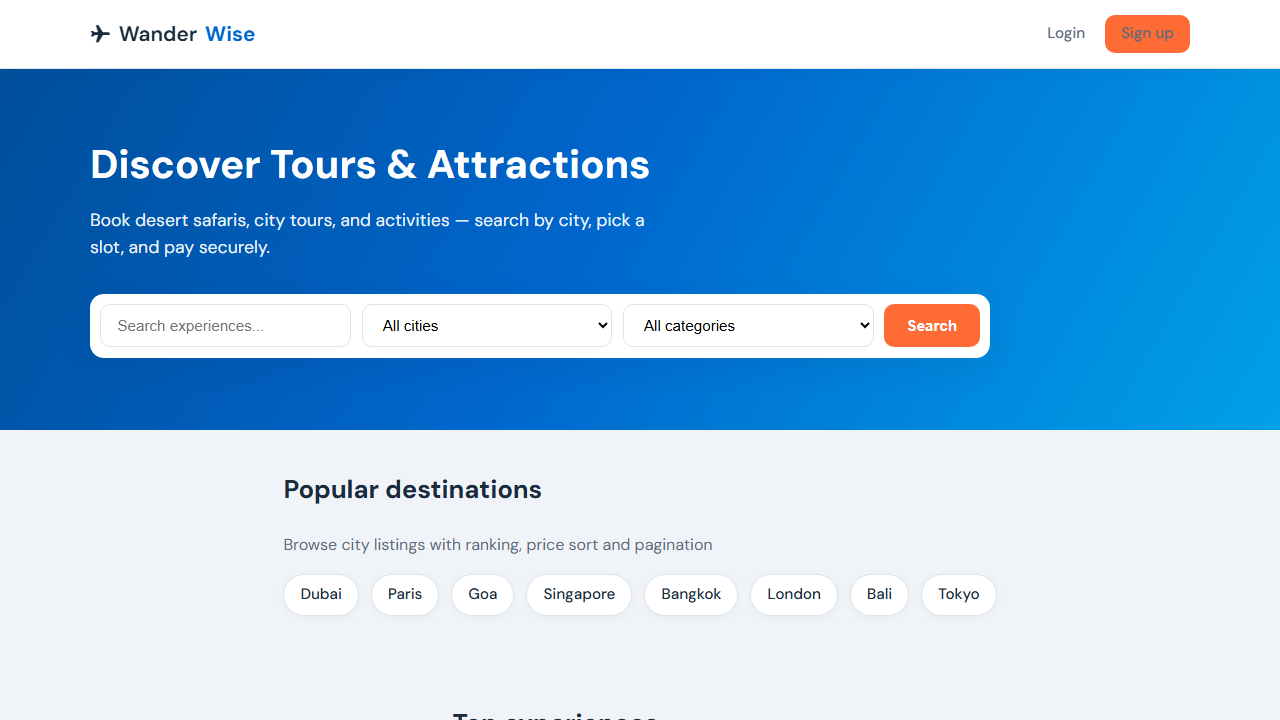
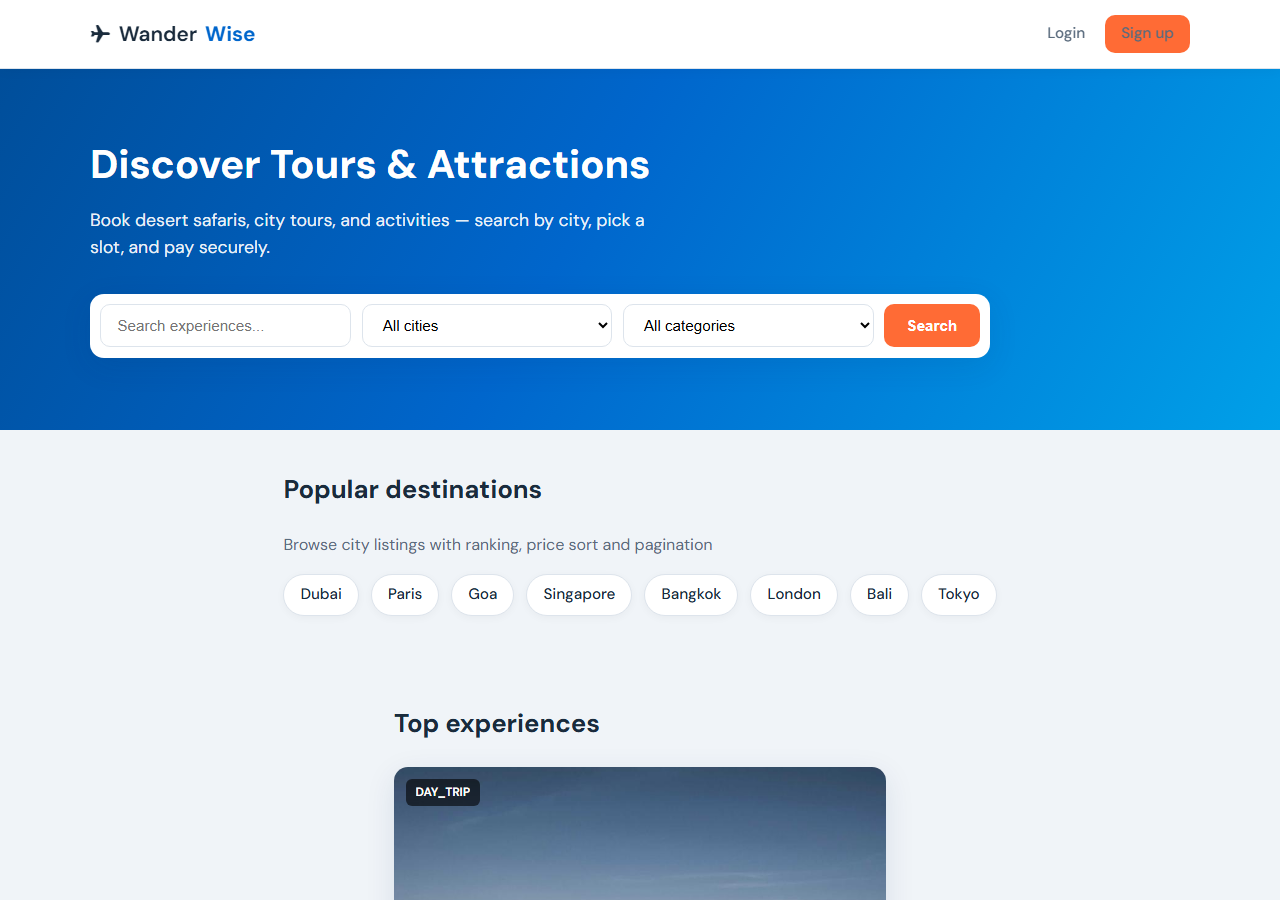
Home page Top experiences: 4-column grid and updated README screenshot.
Four tours per row with responsive breakpoints; load 8 tours (2 rows) on index.

diff --git a/wanderwise-booking-service/src/main/resources/static/css/style.css b/wanderwise-booking-service/src/main/resources/static/css/style.css
@@ -131,11 +131,27 @@ body {
 .section { padding: 2.5rem 0 3rem; }
 .section-title { font-size: 1.6rem; margin-bottom: 1.5rem; font-weight: 700; }
 
+/* Top experiences / listings: 4 cards per row, then next row */
 .grid {
     display: grid;
-    grid-template-columns: repeat(auto-fill, minmax(320px, 1fr));
-    gap: 1.75rem;
+    grid-template-columns: repeat(4, 1fr);
+    gap: 1.25rem;
 }
+@media (max-width: 1100px) {
+    .grid { grid-template-columns: repeat(3, 1fr); }
+}
+@media (max-width: 768px) {
+    .grid { grid-template-columns: repeat(2, 1fr); }
+}
+@media (max-width: 480px) {
+    .grid { grid-template-columns: 1fr; }
+}
+.grid .card-img { height: 160px; }
+.grid .card-body { padding: 1rem; }
+.grid .card h3 { font-size: 1.02rem; }
+.grid .card-price { font-size: 1.15rem; }
+.grid .card-rating { font-size: 0.82rem; margin-bottom: 0.65rem; }
+.grid .card-meta { font-size: 0.8rem; margin-bottom: 0.5rem; }
 .card {
     background: var(--card);
     border-radius: var(--radius);

diff --git a/wanderwise-booking-service/src/main/resources/static/index.html b/wanderwise-booking-service/src/main/resources/static/index.html
@@ -76,7 +76,7 @@ async function loadTours() {
     const loading = document.getElementById('loading');
     loading.classList.remove('hidden');
     grid.innerHTML = '';
-    let q = '?page=0&size=12&sort=popularity';
+    let q = '?page=0&size=8&sort=popularity';
     const kw = document.getElementById('keyword').value.trim();
     const city = document.getElementById('cityId').value;
     const cat = document.getElementById('categoryId').value;
